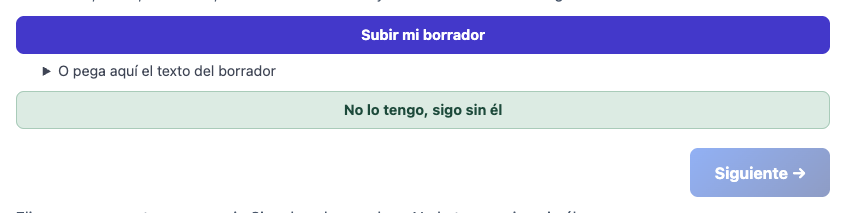
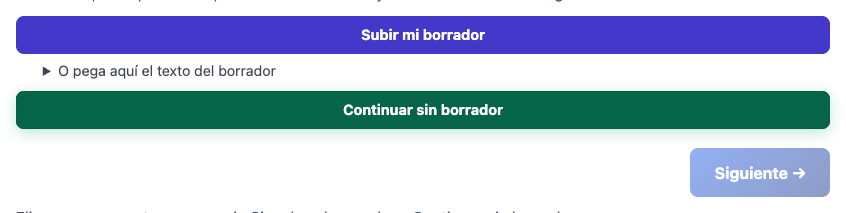
Renta: «Continuar sin borrador», en un esmeralda claro de botón activo
El botón de saltar del borrador se llama «Continuar sin borrador» («Continue
without the draft»); el aviso que lo nombra lo toma solo. El verde salvia
parecía deshabilitado: ahora es un esmeralda relleno (#066548, texto blanco
7:1; con «Contraste», 8,6:1) con línea, sombra, hover y foco verdes. «No tengo
inversiones de este tipo» usa el mismo. Capturas del paso regeneradas.

diff --git a/frontend/src/modules/wizard/ui/css/Wizard.css b/frontend/src/modules/wizard/ui/css/Wizard.css
@@ -395,38 +395,44 @@ html.wiz-big-text {
   box-shadow: none;
   cursor: not-allowed;
 }
-/* «I don't have it» of a file to bring: as big as the button to upload it, in a soft green. The
-   line is a shadow, not a border, so the button keeps the height of the one above it. */
+/* «I don't have it» of a file to bring: as big as the button to upload it, in a clear emerald
+   (white text 7:1). The line is a shadow, not a border, so it keeps the height of the one above. */
 .wiz-skip-below {
-  --skip-bg: #2f5d4e;
-  --skip-bg-hover: #284f42;
-  --skip-ink: #ecfdf5;
-  --skip-line: #3f7a66;
+  --skip-bg: #066548;
+  --skip-bg-hover: #04563d;
+  --skip-ink: #ffffff;
+  --skip-line: #10b981;
+  --skip-ring: #34d399;
   width: 100%;
   margin-top: 0.75rem;
   padding: 0.65rem 1.5rem;
   border: none;
   border-radius: 8px;
   background: var(--skip-bg);
-  box-shadow: inset 0 0 0 1px var(--skip-line);
+  box-shadow:
+    inset 0 0 0 1px var(--skip-line),
+    0 4px 14px rgba(5, 150, 105, 0.25);
   color: var(--skip-ink);
   font-size: 0.9rem;
   font-weight: 700;
   cursor: pointer;
-  transition: background 0.15s;
+  transition:
+    background 0.15s,
+    box-shadow 0.15s;
 }
 .wiz-skip-below:hover {
   background: var(--skip-bg-hover);
+  box-shadow:
+    inset 0 0 0 1px var(--skip-line),
+    0 6px 18px rgba(5, 150, 105, 0.38);
 }
 .wiz-skip-below:focus-visible {
-  outline: 3px solid var(--accent-400);
+  outline: 3px solid var(--skip-ring);
   outline-offset: 2px;
 }
 :root[data-theme='light'] .wiz-skip-below {
-  --skip-bg: #dcebe3;
-  --skip-bg-hover: #cbe1d5;
-  --skip-ink: #1d4a3b;
-  --skip-line: #a9cbb9;
+  --skip-line: #065f46;
+  --skip-ring: #047857;
 }
 /* The investments: as big as the button to bring the files. */
 .wiz-body:has(.renta-invest-card) + .wiz-skip-below {
@@ -548,18 +554,9 @@ html.wiz-contrast .wiz-route-item.is-locked button {
 }
 html.wiz-contrast .wiz-skip-below,
 :root.app-contrast .wiz-skip-below {
-  --skip-bg: #1f4236;
-  --skip-bg-hover: #18362c;
-  --skip-ink: #ffffff;
-  --skip-line: var(--slate-200);
-  box-shadow: inset 0 0 0 2px var(--skip-line);
-}
-html.wiz-contrast[data-theme='light'] .wiz-skip-below,
-:root.app-contrast[data-theme='light'] .wiz-skip-below {
-  --skip-bg: #d5e8dd;
-  --skip-bg-hover: #c3ddcf;
-  --skip-ink: #0b2a1f;
-  --skip-line: var(--slate-200);
+  --skip-bg: #04563d;
+  --skip-bg-hover: #033f2d;
+  box-shadow: inset 0 0 0 2px var(--slate-200);
 }
 
 @keyframes wiz-in {

diff --git a/frontend/e2e/regression.spec.ts b/frontend/e2e/regression.spec.ts
@@ -294,7 +294,7 @@ async function contrastOf(target: import('@playwright/test').Locator) {
 }
 
 for (const width of [390, 1280]) {
-  test(`Renta: «No lo tengo, sigo sin él» as big as «Subir mi borrador», under it, in green (${width} px)`, async ({
+  test(`Renta: «Continuar sin borrador» as big as «Subir mi borrador», under it, in emerald (${width} px)`, async ({
     page,
   }) => {
     await page.setViewportSize({ width, height: width === 390 ? 844 : 900 });
@@ -302,7 +302,7 @@ for (const width of [390, 1280]) {
     await openSection(page, 'Renta (IRPF)');
     const card = page.locator('.wiz-step');
     const upload = card.getByRole('button', { name: 'Subir mi borrador' });
-    const skip = card.getByRole('button', { name: 'No lo tengo, sigo sin él' });
+    const skip = card.getByRole('button', { name: 'Continuar sin borrador' });
     const paste = card.getByText('O pega aquí el texto del borrador');
     const next = card.getByRole('button', { name: 'Siguiente →' });
     await expect(skip).toBeVisible();
@@ -323,13 +323,13 @@ for (const width of [390, 1280]) {
     await expect(
       card.locator('.wiz-nav').getByRole('button', { name: 'Siguiente →' })
     ).toBeVisible();
-    await expect(card.locator('.wiz-nav').getByRole('button', { name: /No lo tengo/ })).toHaveCount(
-      0
-    );
+    await expect(
+      card.locator('.wiz-nav').getByRole('button', { name: /Continuar sin/ })
+    ).toHaveCount(0);
     expect(await page.evaluate(() => document.documentElement.scrollWidth)).toBeLessThanOrEqual(
       width
     );
-    // The upload, the pasted text, «No lo tengo» and «Siguiente», under the sticky header.
+    // The upload, the pasted text, «Continuar sin borrador» and «Siguiente», under the sticky header.
     await page.evaluate(
       (y) => window.scrollTo(0, y - 200),
       u.y + (await page.evaluate(() => scrollY))

diff --git a/frontend/e2e/renta.spec.ts b/frontend/e2e/renta.spec.ts
@@ -13,7 +13,7 @@ test('the Renta assistant goes through the nine steps, in order, to the official
 
   // Steps are locked until the one before is done.
   await expect(steps.getByRole('button', { name: /^Paso 2:/ })).toBeDisabled();
-  await page.getByRole('button', { name: 'No lo tengo, sigo sin él' }).click();
+  await page.getByRole('button', { name: 'Continuar sin borrador' }).click();
 
   const last = page.getByRole('button', { name: 'Terminar ✓', exact: true });
   const asked = await walkWizard(page, { until: last });

diff --git a/frontend/src/modules/wizard/ui/Wizard.tsx b/frontend/src/modules/wizard/ui/Wizard.tsx
@@ -280,7 +280,7 @@ function ScreenNav({
           {label}
         </button>
       </div>
-      {/* The button the line names is the one this screen shows (step 1 says «No lo tengo…»). */}
+      {/* The button the line names is the one this screen shows (step 1 says «Continuar sin borrador»). */}
       {!ok && !missing && (
         <p className="wiz-why-locked">
           {skip ? t('wizard.answerFirst', { skip }) : t('wizard.answerFirstOnly')}

diff --git a/frontend/e2e/wizard.ts b/frontend/e2e/wizard.ts
@@ -1,7 +1,7 @@
 import { expect, type Locator, type Page } from '@playwright/test';
 
 const NEXT = /^(Siguiente →|Terminar el paso \d+ ✓)/;
-const NOT_APPLICABLE = /^(No tengo|No sé|No soy|No hay|No)/;
+const NOT_APPLICABLE = /^(No tengo|No sé|No soy|No hay|No|Continuar sin)/;
 
 /** The card of the question on screen: the one that holds the «Siguiente» button. */
 function card(page: Page): Locator {
